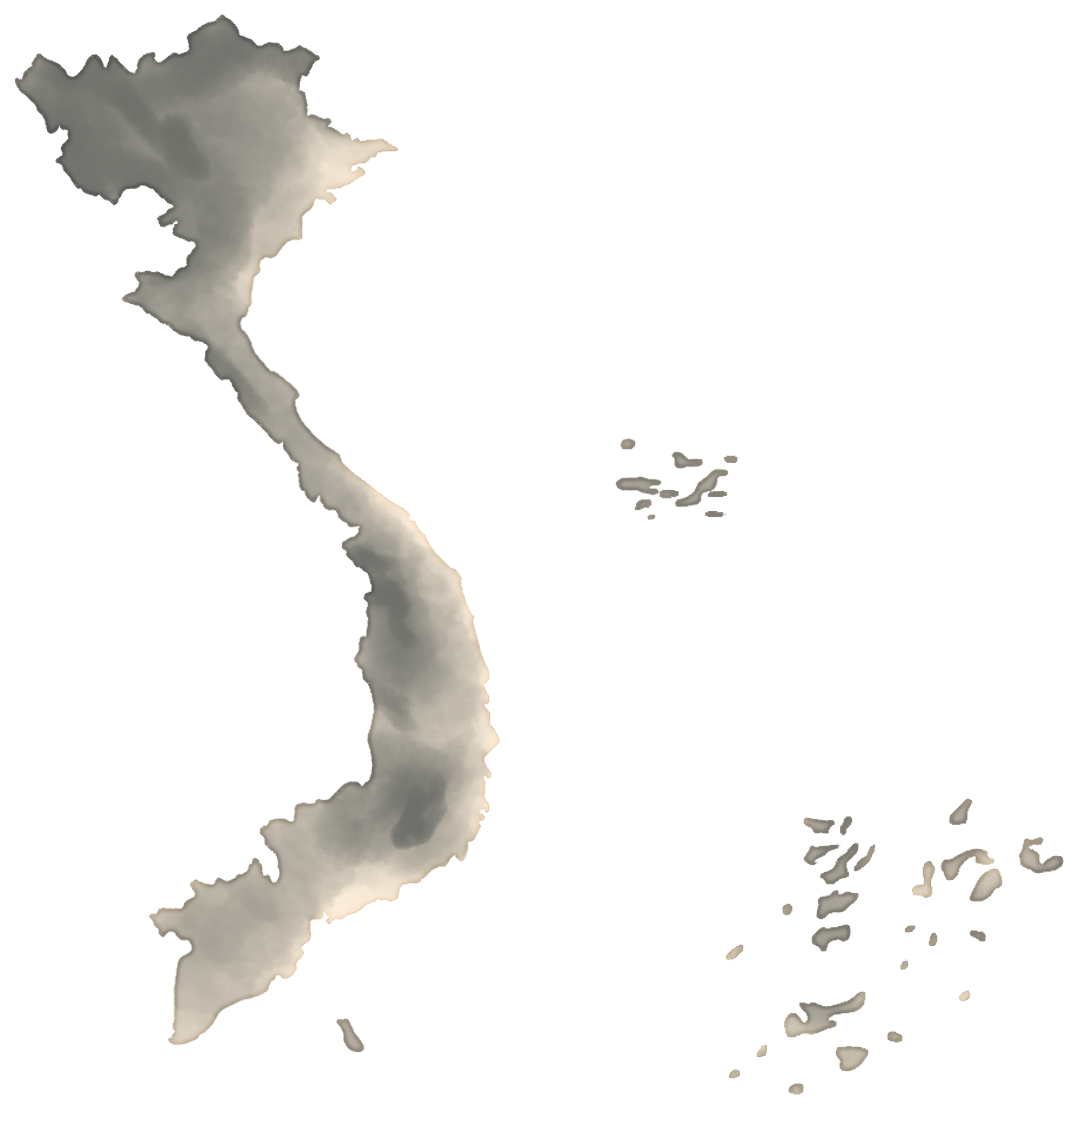
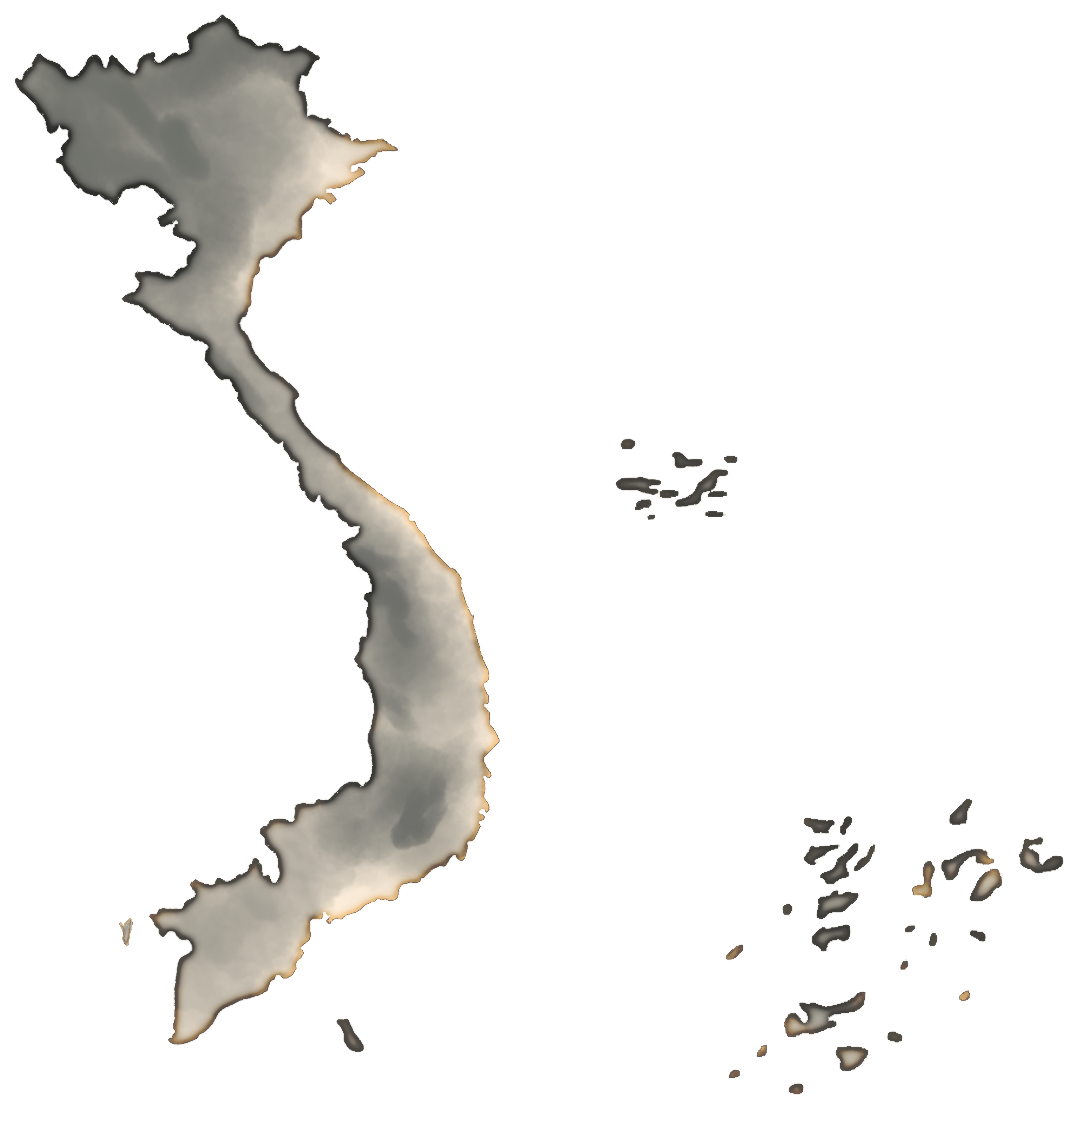
update

diff --git a/index.html b/index.html
@@ -382,7 +382,7 @@
       </div>
       <div class="room-stage" style="text-align:center">
         <a data-go="expo" href="#expo" aria-label="Mở bản đồ làng nghề" style="display:inline-block;cursor:pointer">
-          <img src="assets/tổng thể nước việt nam.png" alt="Bản đồ làng nghề Việt Nam" style="width:80%;max-width:300px;filter:drop-shadow(0 16px 26px rgba(0,0,0,.4))">
+          <img src="assets/tổng thể nước việt nam.png" alt="Bản đồ làng nghề Việt Nam" style="width:100%;max-width:520px;transform:scale(1.12);filter:drop-shadow(0 16px 26px rgba(0,0,0,.4))">
         </a>
       </div>
       <div class="feat-panel">

diff --git a/styles.css b/styles.css
@@ -312,7 +312,7 @@ main.active{display:block;animation:pgin .5s ease both}
   color:var(--pearl);padding:100px 0;overflow:hidden;position:relative;
 }
 .expo-band .bg-cloud{position:absolute;color:var(--gold);opacity:.10}
-.expo-band .wrap{display:grid;grid-template-columns:1fr 1.1fr .9fr;gap:42px;align-items:center;position:relative}
+.expo-band .wrap{display:grid;grid-template-columns:1fr 1.35fr .85fr;gap:42px;align-items:center;position:relative}
 .expo-band .kicker{color:var(--gold)}
 .expo-band h2{font-family:var(--serif);font-size:clamp(32px,3.6vw,46px);font-weight:600;line-height:1.1;margin:16px 0 18px;color:var(--pearl)}
 .expo-band .desc{color:var(--muted);font-size:15px;margin-bottom:30px}